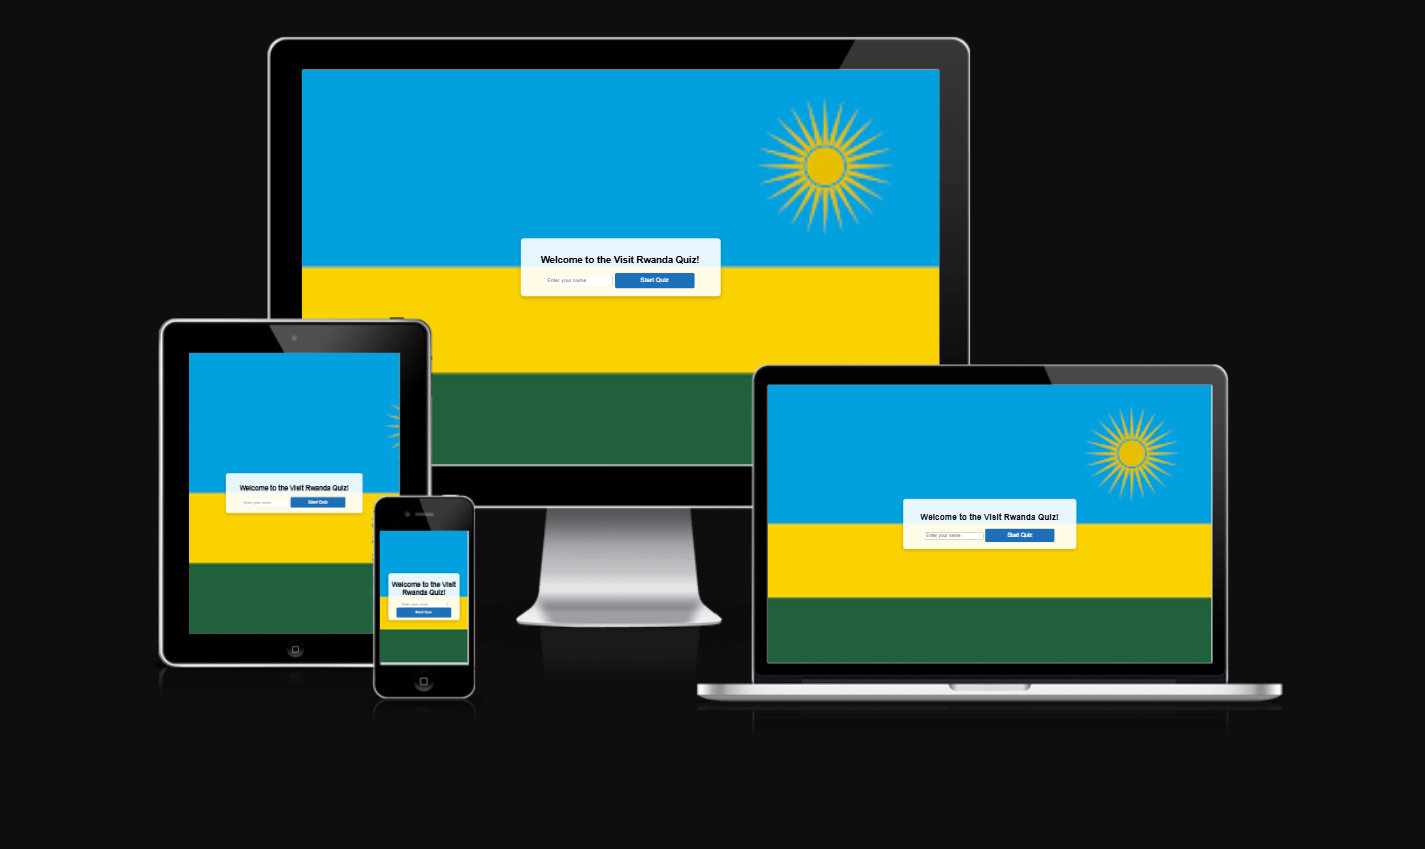
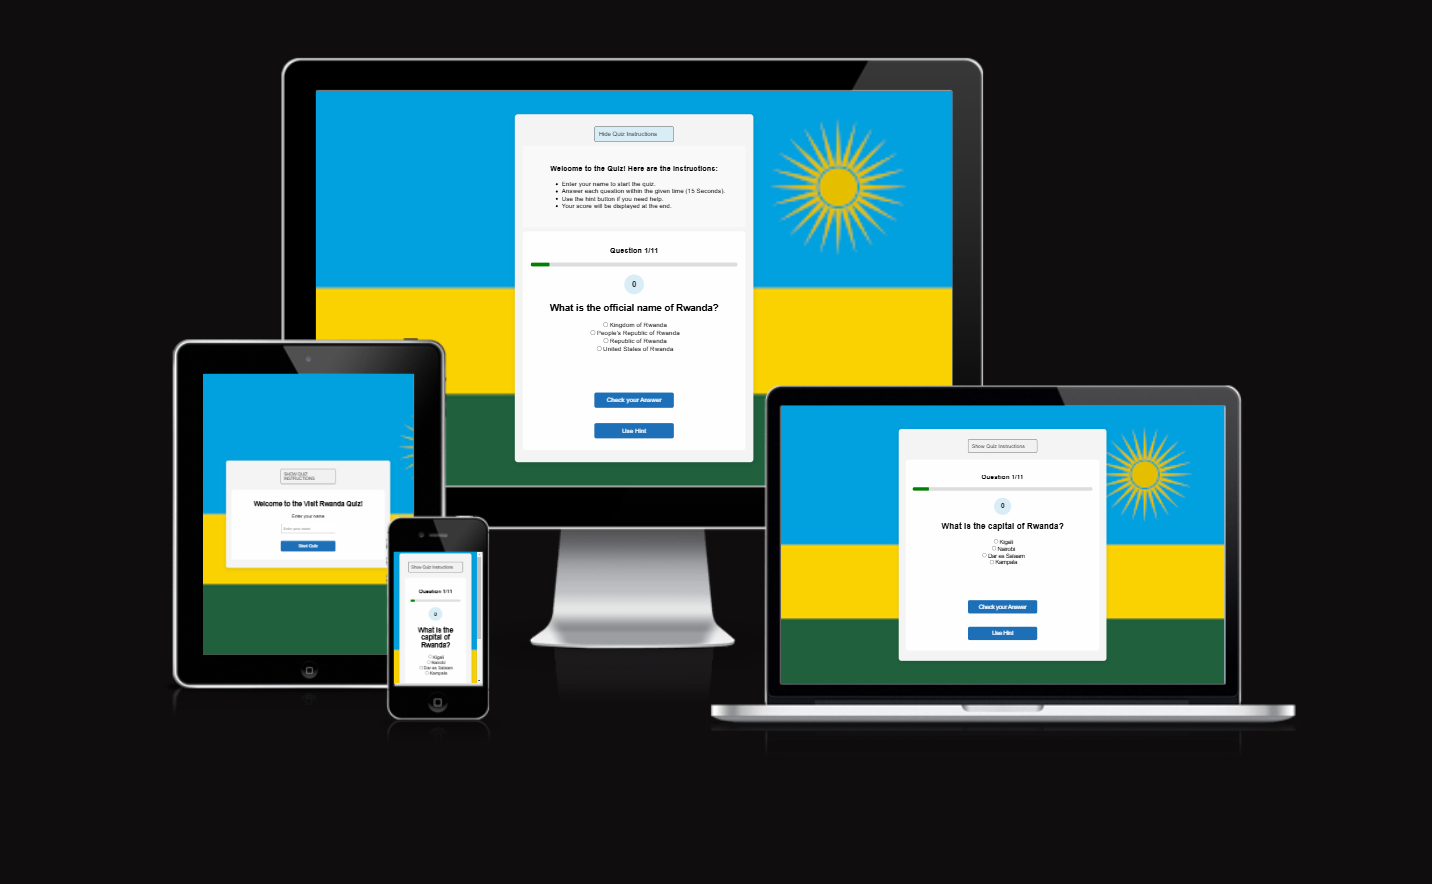
README: Update the images to reflect the new version of the application; CSS: Remove commented-out codes

Changed region(s): [[0.0926, 0.0306, 0.9263, 0.8269]]

diff --git a/assets/css/style.css b/assets/css/style.css
@@ -254,43 +254,3 @@ button:hover {
   --hover-blue: #144a7a;
   --timer-light-blue: #d9edf7;
 }
-
- /* #answers button {
-   display: block;
-   width: 100%;
-   margin: 10px auto;
-   padding: 10px;
-   background-color: grey;
-   border: 1px solid #ccc;
-   border-radius: 5px;
-   cursor: pointer;
-   font-size: 1rem;
-   transition: background-color 0.2s ease;
- } */
-
- /* #answers button:hover {
-   background-color: green;
- } */
-
-
-
- /* Quiz Container */
- /* #quiz-container {
-   /* background-color: var(--background-gray); */
-   /* padding: 20px; */
-   /* border-radius: 8px;
-   max-width: 600px;
-   width: 90%;
-   box-shadow: 0px 4px 8px rgba(0, 0, 0, 0.1); */
- /* } */ 
-
- /* Button Styling */
- /* button { */
-   /* background-color: var(--primary-blue); */
-   /* color: white;
-   border: none;
-   padding: 10px 15px;
-   border-radius: 4px;
-   cursor: pointer; */
-   /* transition: background-color 0.3s; */
- /* } */

diff --git a/assets/js/script.js b/assets/js/script.js
@@ -379,7 +379,7 @@ function showResults() {
 
 
 function restartQuiz() {
-  location.reload();
+  // location.reload();
   currentQuestionIndex = 0;
   score = 0;
   streak = 0;

diff --git a/README.md b/README.md
@@ -1,6 +1,6 @@
 # The Visit Rwanda Quiz
 
-![The Visit Rwanda Quiz shown on a variety of screen sizes](./assets/images/amiresponsiveimage.png)
+![The Visit Rwanda Quiz shown on a variety of screen sizes](./assets/images/amiresponsiveimage.png)![alt text](image.png)
 
 Visit the deployed site: [The Visit Rwanda Quiz](https://vinsengi.github.io/Visit-Rwanda-Quiz_PP2/)
 
@@ -109,8 +109,18 @@ This scheme keeps the quiz interface vibrant, visually consistent, and reflectiv
 As the website is called The Visit Rwanda Quiz, I used an image of the Rwandan flag as the background image to give the user the feeling that the quiz is really about this land they want to visit.
 
 ### Wireframes
+#### Login Page Wireframe
+![The Login Page](./assets/images/login_page.png)
 
-No wireframe at this time as i did not have enough time to do this.
+#### Login Page with Quiz Instruction uncollapsed
+![Loging page 2](./assets/images/login_page_2.png)
+
+#### Quiz Page
+![The Quiz Page](./assets/images/quiz_page.png)
+
+#### Results Page
+![The Results Page](./assets/images/results_page.png)
+
 
 ### Features
 
@@ -125,28 +135,35 @@ No wireframe at this time as i did not have enough time to do this.
 
 #### The Home Page
 
-as soon as you land to the quiz area, you start the quiz just after giving your name in. No navigations involved.
-
+as soon as you land to the quiz area, you start the quiz just after giving your name in. No navigations involved. You hide or show the quiz instructions if you prefer too. 
+![The landing page](./assets/images/landing_page.png)
 #### The Game Page
 
-The quiz page displays the questions (11). every question has 15 seconds timer which stops as long as the user select his/her first choice answer.
+The quiz page displays the questions (x out of 11). every question has 15 seconds timer which doe NOT force the user to move to the next questions after 15 seconds (Allocated time for answering one question).
+Before a choice answer is selected, the "Next" Button is hidden.
+![Image of the quiz page](./assets/images/quizarea.png)
 
-![Image of the quiz page ](./assets/images/example-questions.png)
 
-#### The Quiz area (beginning)
-![Image of quiz area](./assets/images/quizarea.png)
+#### The Quiz area 
+Once the user selects the answer, the "Next" button is shown. once clicked, the user's answer is then recorden as THE CHOICE, and then proceeds to the next question.
+
+If the User would click on "Check your Answwer" Button, the the users would get an instant feedback of whether the selected answer is correct or not correct. Once that is done, the user can may only go to the next question.
+
+![Image of quiz area](./assets/images/quiz_area_with_nextbutton.png)
+
 
 
 
 #### The Scores Page
+![Scores Page Image-1](./assets/images/score-page-image.png)
+![Scores Page Image-2](./assets/images/score-page-image-2.png)
 
-![Scores Page Image](./assets/images/scorepage.png)
 
 #### The alert when time is over
 
-If the user takes more than 15 seconds without selecting an answer, there will come an alert that show that 15 seconds are over and by clicking on "OK", moves the user to the next question.
+If the user takes more than 15 seconds without selecting an answer, there will come an alert that show that 15 seconds are over and by clicking on "OK", this should automatically move the user to the next question. However, that will be in the next iteration. Currently, the user is not moved to the next question automatically after 15 seconds, reason being that a user should select an answer first before he/she can move forward.
 
-![Time is over Alert](./assets/images/timeoveralert.png)
+
 ![Time is over Alert](./assets/images/timeupalert.png)
 
 #### The 500 Error Page
@@ -161,7 +178,7 @@ In future implementations I would like to:
 2. Add some historical information on some questions that could be displayed to the user if the user want it so.
 3. Create a back end database to enable me to store scores which would then allow you to see how you scored in previous quizes.
 4. Look further into the accessibility for people with colour blindness, perhaps by adding symbols such as a tick or cross next to the answer when they are checked.
-5. Final results will be improved
+5. Force the user to move to the next question when the allocated 15 seconds are over
 
 ### Accessibility
 
@@ -244,6 +261,8 @@ To clone the repository:
 - - -
 
 ## Testing
+### JavaScipt Validator
+
 
 ### HTML Validator
 * Passed
@@ -255,7 +274,12 @@ To clone the repository:
 
 ### Performance testing on mobile devices - with Lighthouse
 * Passed
-![APerformance Testing with Lighthouse](./assets/images/testing/accessibility-mobile-testing.png)
+
+![APerformance Testing with Lighthouse](./assets/images/testing/accessibilitytestinglh.png)
+
+### Accessibility Evaluation
+No error shown with the accessibility tool - WAVE.
+![accessibilty evaluation](./assets/images/testing/accessibility-evaluation.png)
 
 ### Solved Bugs
 
@@ -264,11 +288,10 @@ To clone the repository:
 
 ### Known Bugs
 
-* Usename input box to be adjusted and make it bigger as the start quiz button.
-* on mobile devices, the login input box seems attached to the start quiz button and that doesn't look nice.
-* Final results comparison to correct answers needs improvement
+* Radio button of the selectable answers are not adjusted tot he left. it would be possibly be more appealing if they would be aligned left.
+* When the 15 seconds are over, no aautomatic action happens. The user should be prompted to  move to the next question.
+* Images will be redused using Brime
 
-![Future bug fix](./assets/images/testing/futurebugtobefixed.png)
 
 - - -
 
